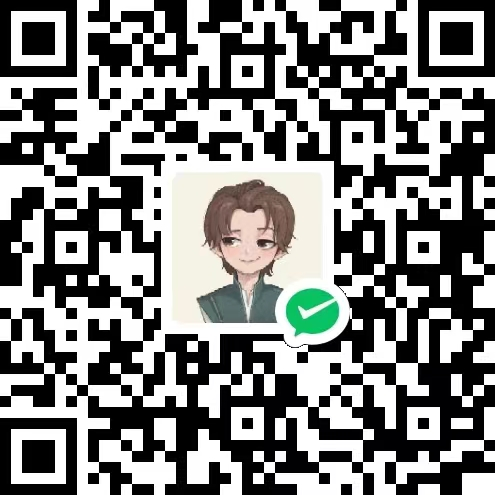
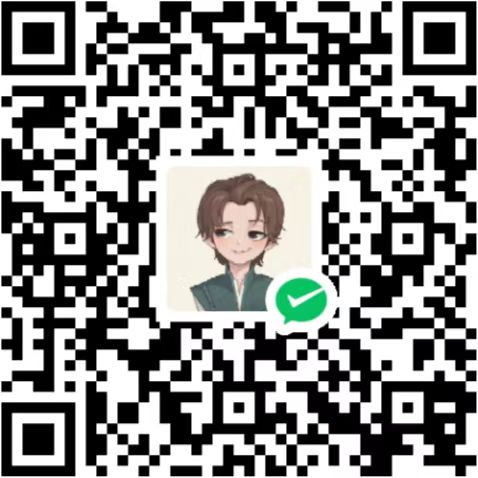
modify donate info

diff --git a/index.html b/index.html
@@ -70,10 +70,7 @@
     let secondsCount = 0;
     let countTimer;
     let src = "jigsaw.jpg";
-    let donateSrc = "donate.png";
-    // let src = "https://7n.w3cschool.cn/statics/images/course/img_navsprites.gif";
-    // let src = "https://raw.githubusercontent.com/moonpath/jigsaw/master/Jigsaw/Resources/0.jpg";
-    // let donateSrc = "https://raw.githubusercontent.com/moonpath/jigsaw/master/Jigsaw/Resources/1.png";
+    let donateSrc = "donate.jpg";
     generateControl(src);
     generateBox(Number(document.getElementById("rows").value),
         src);

diff --git a/jigsaw.js b/jigsaw.js
@@ -65,7 +65,7 @@ function config() {
 
         document.getElementById("src").style.top = `${srcTop + diff}px`;
         document.getElementById("src").style.width = `${srcWidth - diff * 2}px`;
-        document.getElementById("src_input").value = src;
+        document.getElementById("src_input").value = document.getElementById("img_0").src;
         document.getElementById("src").style.display = "block";
 
         configState = true;
